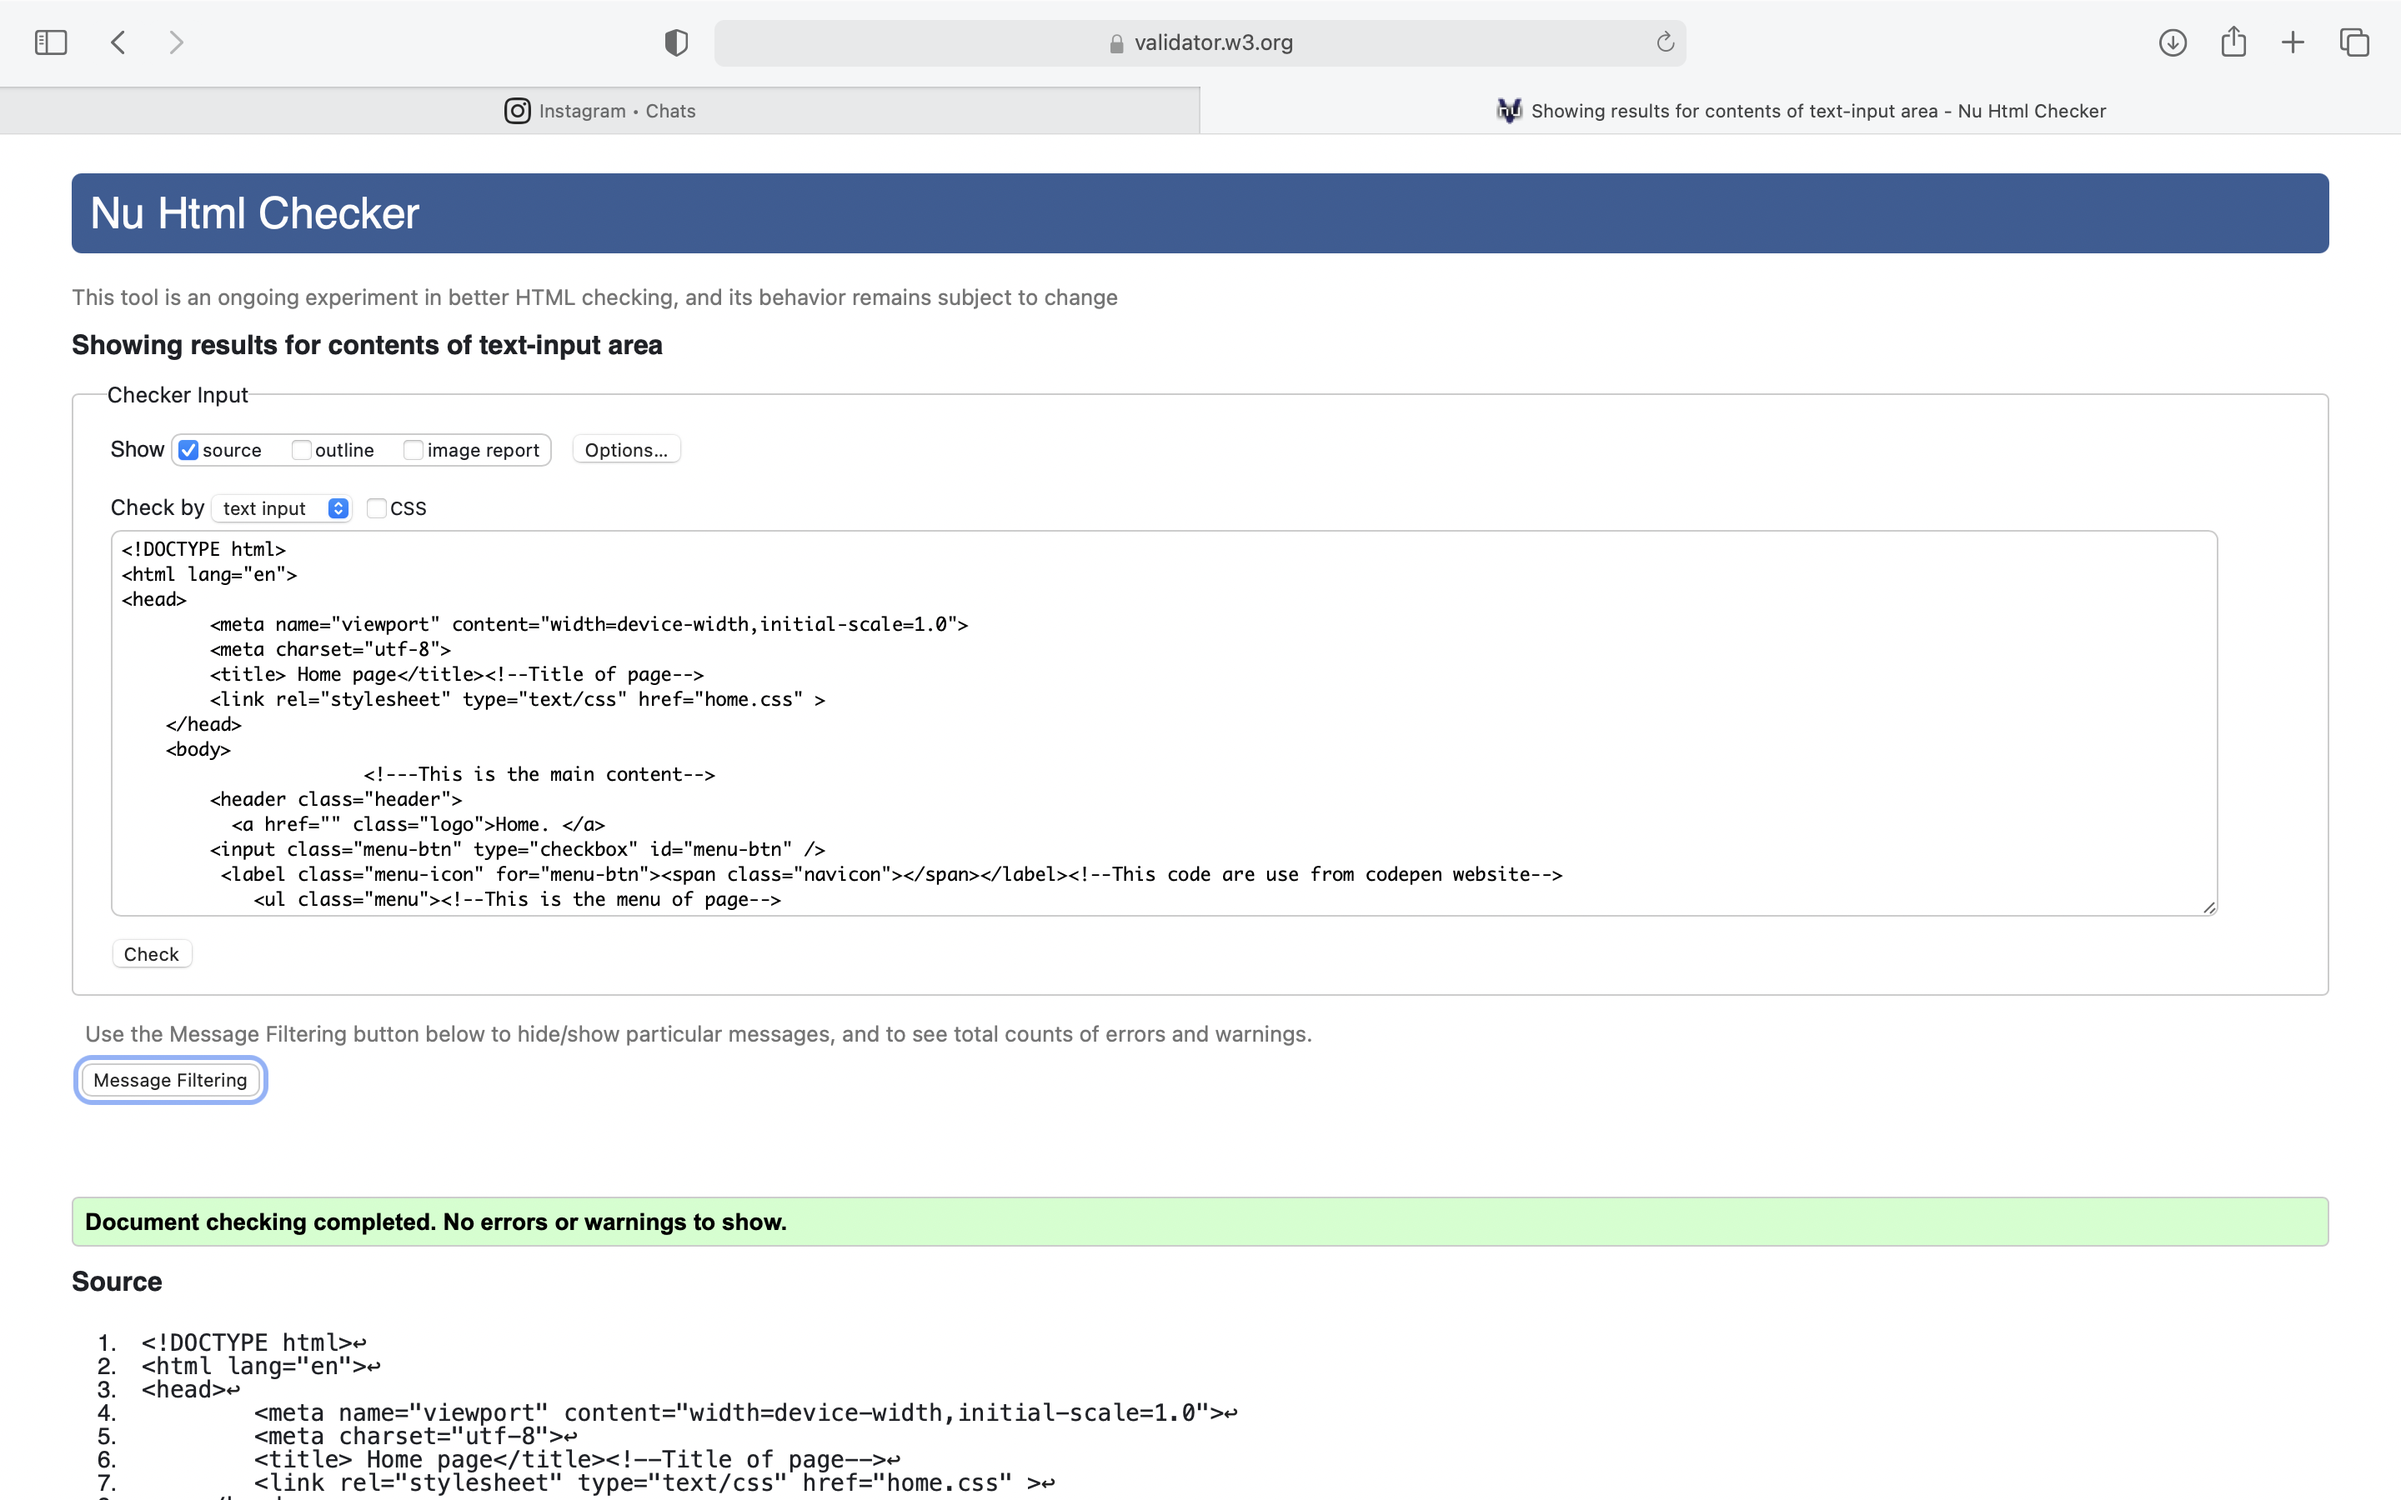
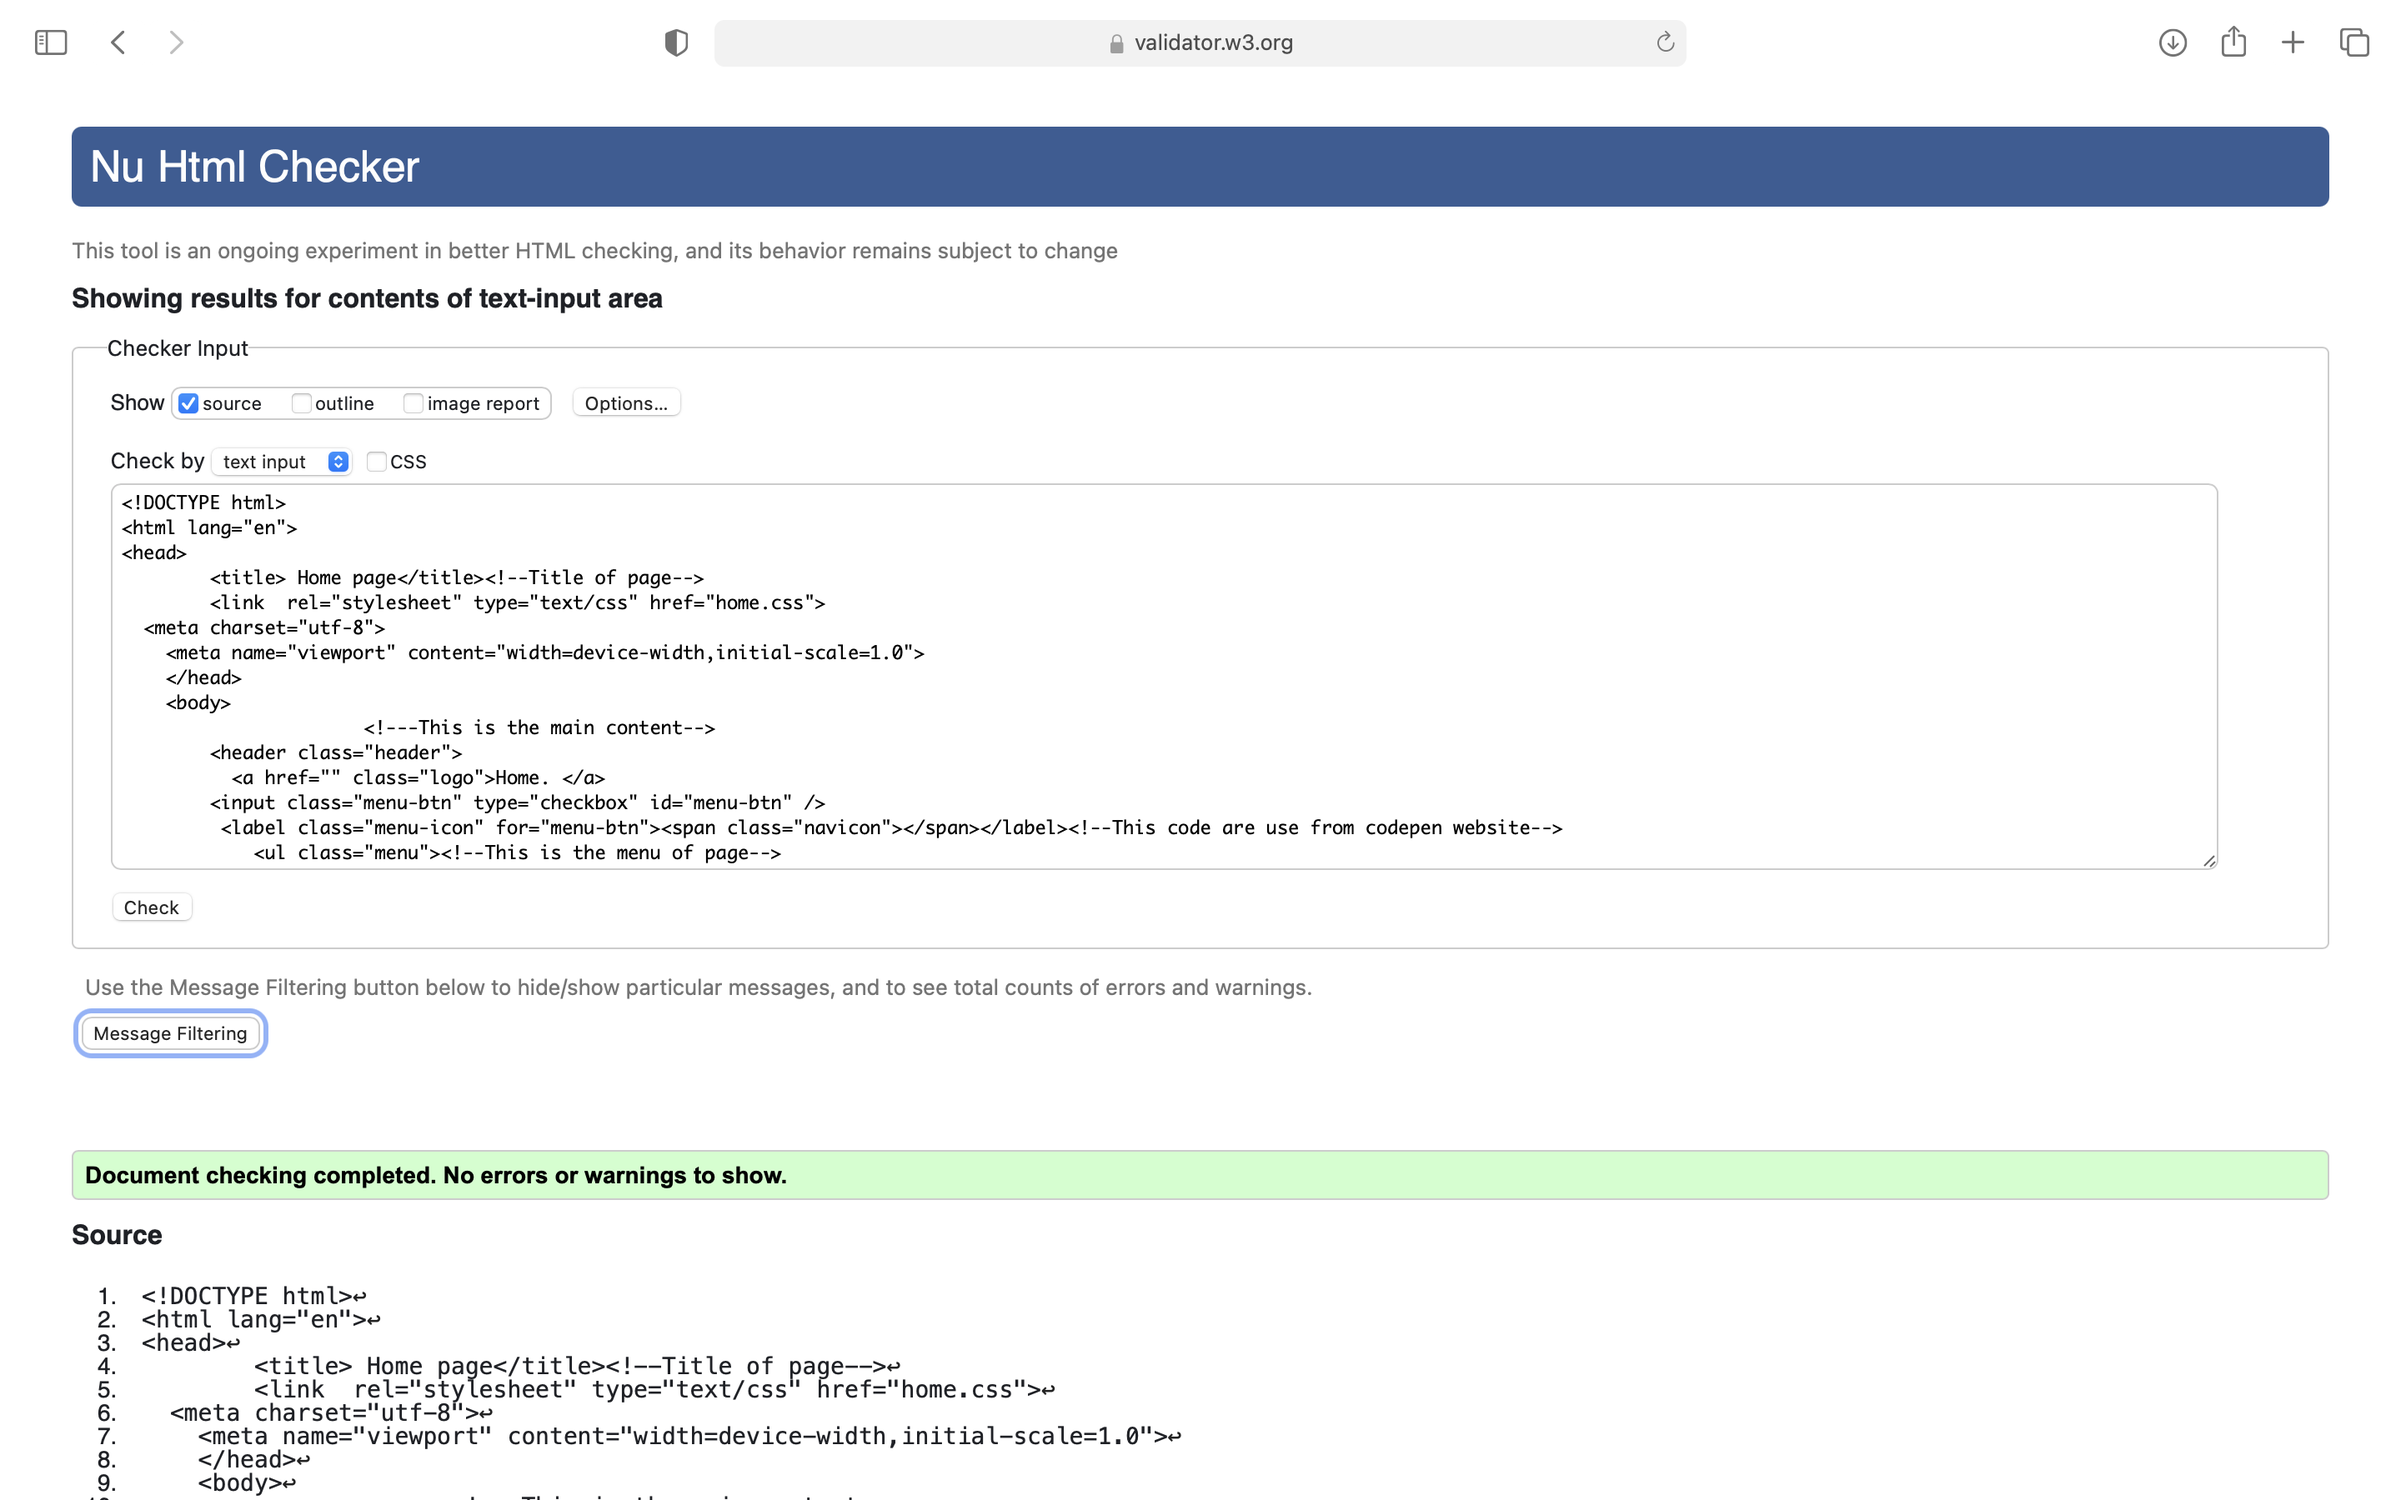
My Assignment

Changed region(s): [[0.0, 0.0311, 0.9688, 0.6222], [0.0312, 0.5911, 0.9688, 1.0]]

diff --git a/sitereport.html b/sitereport.html
@@ -1,10 +1,10 @@
-<DOCTYPE html>
+<!DOCTYPE html>
 <html lang="en">
 <head>
-	<meta name="viewport" content="width=device-width,initial-scale=1.0">
-    <meta charset="utf-8">
 	<title> sitereport page</title>
 	<link rel="stylesheet" type="text/css" href="report.css">
+    <meta charset="utf-8">
+    <meta name="viewport" content="width=device-width,initial-scale=1.0">
     <!---Headline of report--->
 		<header class="header">
           <a href="" class="logo">Sitereport. </a>
@@ -25,7 +25,7 @@
 	</div>
 	   
 	   <!---This is content of report-->
-		<p>First of all,let me introduce myself Sungava Subedi and I am the student of IT(Information Technology) from NAMI College. After I passed my +2 , I was searching for IT college then after I was attracted by the learning process and environment of NAMI college which is totally different from other college. It's been only two month I joined NAMI college. It's just a beginning of learning in this course.Since, This month we learning  our modules through online classes because of pandemic situation. I am very excited to share my  physical and online learning experience.</p>
+		<p>First of all,let me introduce myself Sungava Subedi and I am the student of (Bsc Computing) from NAMI College. After I passed my +2 , I was searching for IT college then after I was attracted by the learning process and environment of NAMI college which is totally different from other college. It's been only two month I joined NAMI college. It's just a beginning of learning in this course.Since, This month we learning  our modules through online classes because of pandemic situation. I am very excited to share my  physical and online learning experience.</p>
 	  
 
 	    <!--Basic details of report--->
@@ -58,7 +58,7 @@
           <p>  Background Image title:20,418  Contact Us Stock Photos & Royality-Free Images,Creator:utah778,Credit:Getty images istockphoto.<br>Source of Image:Contact Us image Downloaded from google.<br>Background Image link:<a href="https://www.google.com/url?sa=i&url=https%3A%2F%2Fwww.istockphoto.com%2Fphotos%2Fcontact-us&psig=AOvVaw3xxcTOBtWIvzbRIx3wzTXX&ust=1622273804527000& source=images&cd=vfe&ved=0CA0QjhxqFwoTCNDS54Tv6_ACFQAAAAAdAAAAABAE.">URL of Image</a><br><br>Concept of page:Coding market & Module lecture.Source:Module tutorial And Youtube tutorial.<br><br>Hamburger Icon code link:<a href="https://www.google.com/url?sa=t&rct=j&q=&esrc=s& source=web&cd=&ved=2ahUKEwiw-6vovPjwAhWbXisKHfSLDDkQFjAAegQIBRAD&url=https%3A%2F%2Fcodepen.io%2Fmutedblues%2Fpen%2FMmPNPG&usg=AOvVaw0bY7JoaoNR6dQUJffzfaXL">URL of Icon code</a><br>Source of icon code:Google(Website:codepen)</p>
        <li>CV Page</li>
         <b>Reference:</b><!--Reference of cv page--> 
-          <p>Concept of page: Module Lecture ,Module tutorial and from google.<br>Source code:https://www.patreon.com /online tutorials from youtube.<br><br>Hamburger icon code link:<a href="https://www.google.com/url?sa=t&rct=j&q=&esrc=s&source=web&cd=&ved=2ahUKEwiw-6vovPjwAhWbXisKHfSLDDkQFjAAegQIBRAD&url=https%3A%2F%2Fcodepen.io%2Fmutedblues%2Fpen%2FMmPNPG&usg=AOvVaw0bY7JoaoNR6dQUJffzfaXL">URL of Icon code</a><br>Source of code:Google(Website:codepen)</p>
+          <p>Concept of page: Module Lecture ,Module tutorial and from google.<br>Source code:https://www.patreon.com /online tutorials from youtube.<br><br>Background Image link:<a href="https://www.google.com/imgres?imgurl=https%3A%2F%2Fimage.shutterstock.com%2Fimage-photo%2Fgreen-bokeh-light-background-blur-260nw-1708629190.jpg&imgrefurl=https%3A%2F%2Fwww.shutterstock.com%2Fsearch%2Fgreen%2Blight%2Bbackground&tbnid=wfeqoaptJZPlqM&vet=12ahUKEwigj6vR5LrxAhXXEbcAHTdHAbgQMygFegUIARDoAQ..i&docid=tsGfyvOTmoRBHM&w=393&h=280&q=background%20images&hl=en&client=safari&ved=2ahUKEwigj6vR5LrxAhXXEbcAHTdHAbgQMygFegUIARDoAQ">URL of Image</a><br>Source of Image:Green Light Background HD Stock Images.<br><br>Hamburger icon code link:<a href="https://www.google.com/url?sa=t&rct=j&q=&esrc=s&source=web&cd=&ved=2ahUKEwiw-6vovPjwAhWbXisKHfSLDDkQFjAAegQIBRAD&url=https%3A%2F%2Fcodepen.io%2Fmutedblues%2Fpen%2FMmPNPG&usg=AOvVaw0bY7JoaoNR6dQUJffzfaXL">URL of Icon code</a><br>Source of code:Google(Website:codepen)</p>
         <li>Sitereport Page</li>
         <b>Reference:</b><!--Reference of sitereport-->
            <p>Source:Module Tutorial.<br>Concept of page:From module and Myself.<br><br>Hamburger icon code link:<a href="https://www.google.com/url?sa=t&rct=j&q=&esrc=s&source=web&cd=&ved=2ahUKEwiw-6vovPjwAhWbXisKHfSLDDkQFjAAegQIBRAD&url=https%3A%2F%2Fcodepen.io%2Fmutedblues%2Fpen%2FMmPNPG&usg=AOvVaw0bY7JoaoNR6dQUJffzfaXL">URL of Icon code</a><br>Source of code:Google(website:Codepen)</p>

diff --git a/portfolio.html b/portfolio.html
@@ -1,10 +1,10 @@
 <!DOCTYPE html>
 <html lang="en">
 <head>
-	<meta name="viewport" content="width=device-width,initial-scale=1.0">
-  <meta charset="utf-8">
 	<title>portfolio page</title>
 	<link rel="stylesheet"  type="text/css" href="portfolio.css">
+  <meta charset="utf-8">
+  <meta name="viewport" content="width=device-width,initial-scale=1.0">
 </head>
 <body>
 
@@ -20,11 +20,11 @@
         </ul>
       </header>
     <div class="flex"><!--These are dummy images-->
-    	<img src="port.webp" alt="placeholder1 lul" class="size"><!--This image is download from shutterstock.com-->
+    	<img src="port.png" alt="placeholder1 lul" class="size"><!--This image is download from shutterstock.com-->
     	<img src="folio.jpg" alt="placeholder2 lul"  class="size"><!--This image is download from blog.accolades.dev-->
-      <img src="port.webp" alt="placeholder1 lul" class="size"><!--This image is download from shutterstock.com-->
+      <img src="port.png" alt="placeholder1 lul" class="size"><!--This image is download from shutterstock.com-->
       <img src="folio.jpg" alt="placeholder2 lul"  class="size"><!--This image is download from blog.accolades.dev-->
-      <img src="port.webp" alt="placeholder1 lul" class="size"><!--This image is download from shutterstock.com-->
+      <img src="port.png" alt="placeholder1 lul" class="size"><!--This image is download from shutterstock.com-->
       <img src="folio.jpg" alt="placeholder2 lul"  class="size"><!--This image is download from blog.accolades.dev-->
     </div>
     <div class="text">

diff --git a/cv.html b/cv.html
@@ -1,10 +1,10 @@
 <!DOCTYPE html>
 <html lang ="en">
 <head>
-   <meta name="viewport" content="width=device-width,initial-scale=1.0">
-   <meta charset="utf-8">
    <title>CV page</title>
    <link rel="stylesheet" type="text/css" href="cv.css">
+   <meta charset="utf-8">
+   <meta name="viewport" content="width=device-width,initial-scale=1.0">
 </head>  
 <body>  
          <!--Menu of page-->
@@ -24,7 +24,7 @@
    <section>
       <div>
             
-       <h2>Sungava Subedi<br><span>(IT) Student</span></h2>
+       <h2>Sungava Subedi<br><span>(Bsc Computing) Student</span></h2>
         <h3 class="title">Contact Info:</h3> 
         <menu> <!--This is my contact-->      
            <li> Phone no: 984264817</li>

diff --git a/home.html b/home.html
@@ -1,10 +1,10 @@
 <!DOCTYPE html>
 <html lang="en">
 <head>
-	<meta name="viewport" content="width=device-width,initial-scale=1.0">
-	<meta charset="utf-8">
 	<title> Home page</title><!--Title of page-->
-	<link rel="stylesheet" type="text/css" href="home.css" >
+	<link  rel="stylesheet" type="text/css" href="home.css">
+  <meta charset="utf-8">
+    <meta name="viewport" content="width=device-width,initial-scale=1.0">
     </head>
     <body>
 		      <!---This is the main content-->

diff --git a/contact.html b/contact.html
@@ -1,10 +1,10 @@
 <!DOCTYPE html>
 <html lang="en">
 <head>
-        <meta name="viewport" content="width=device-width,initial-scale=1.0">
-        <meta charset="utf-8">
          <title>contact page</title>
          <link rel="stylesheet" type="text/css" href="contact.css">
+         <meta charset="utf-8">
+         <meta name="viewport" content="width=device-width,initial-scale=1.0">
   </head>
   <body>
         <header class="header"><!--Header of the page-->
